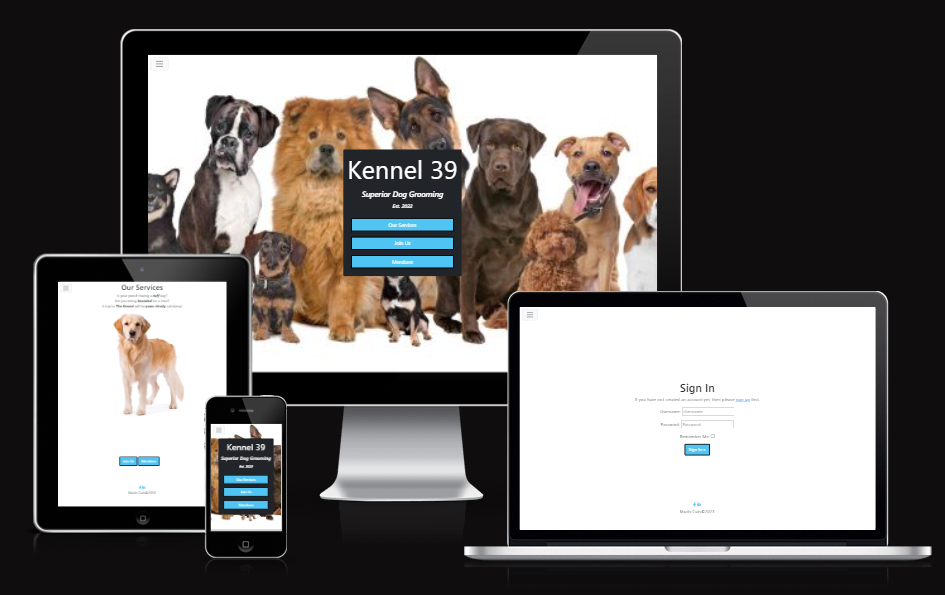
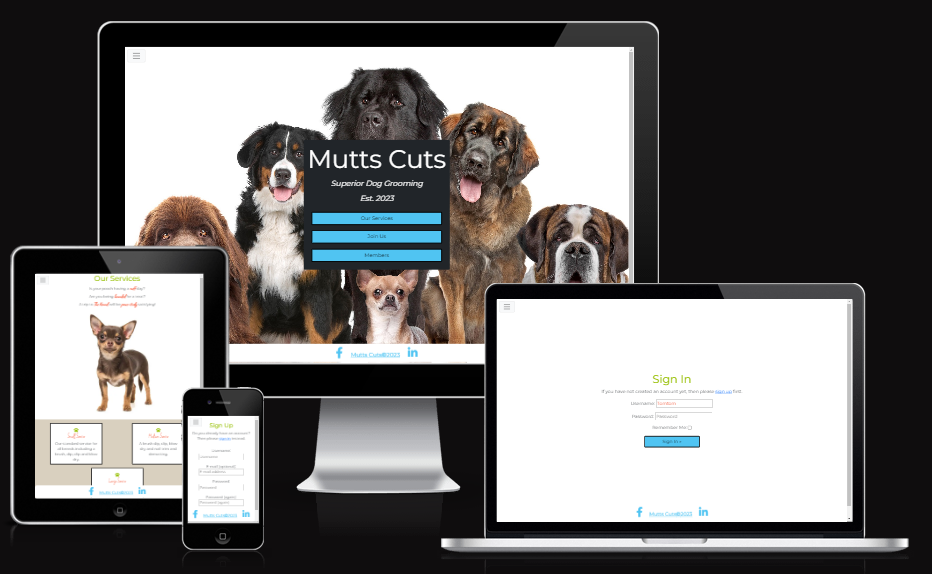
update responsive image and live link for site

diff --git a/README.md b/README.md
@@ -2,15 +2,14 @@
 
 ![mockup images](docs/readme/responsive.PNG "Website preview at different resolutions"))
 
-[View The Live Project Here]()
+[View The Live Project Here](https://muttscuts-grooming.herokuapp.com/)
 
 ## Table Of Contents
 1. [Introduction](#Introduction)
     1. [Scenario](#Scenario)
 2. [UX](#UX)
-    1. [Ideal User Demographic](#Ideal-User-Demographic)
-    2. [User Stories](#User-Stories)
-    3. [Design Thinking](#Design-Thinking)
+    1. [User Stories](#User-Stories)
+    2. [Design Thinking](#Design-Thinking)
 3. [Features](#Features)
     1. [Design Features](#Design-Features)
     2. [Existing Features](#Existing-Features)
@@ -34,7 +33,7 @@
 ## Introduction
 # Mutts Cuts
 
-Welcome to Mutts Cuts!  A  booking site for a small dog grooming business.
+Welcome to Mutts Cuts!  A booking site for a small dog grooming business.
 
 ## Scenario
 
@@ -51,11 +50,7 @@ A business with a well developed website tends to do better than its peers.  Cus
 
 With the above in mind, let's help Mutts Cuts!
 
-
-
 ## UX
-### Ideal User Demographic
-
 
 ### User-Stories
 
@@ -159,10 +154,7 @@ Update - mid project it was discovered there was no need for a calendar table.  
 
 ![Mutts Cuts ERD](docs/readme/mutts-cuts-erd-v1.png)
 
-
-
 #### Scope
-
 
 #### Structure
 The information above was then organized in a hierarchical tree structure, a site map, showing how users can navigate through the site with ease and efficiency, with the following results:
@@ -209,7 +201,6 @@ In *DevTools*, in the Elements tab, right click on the target element and select
 Useful for creating image files for readme.
 
 ### Design Features
-
 
 ### Existing Features
 
